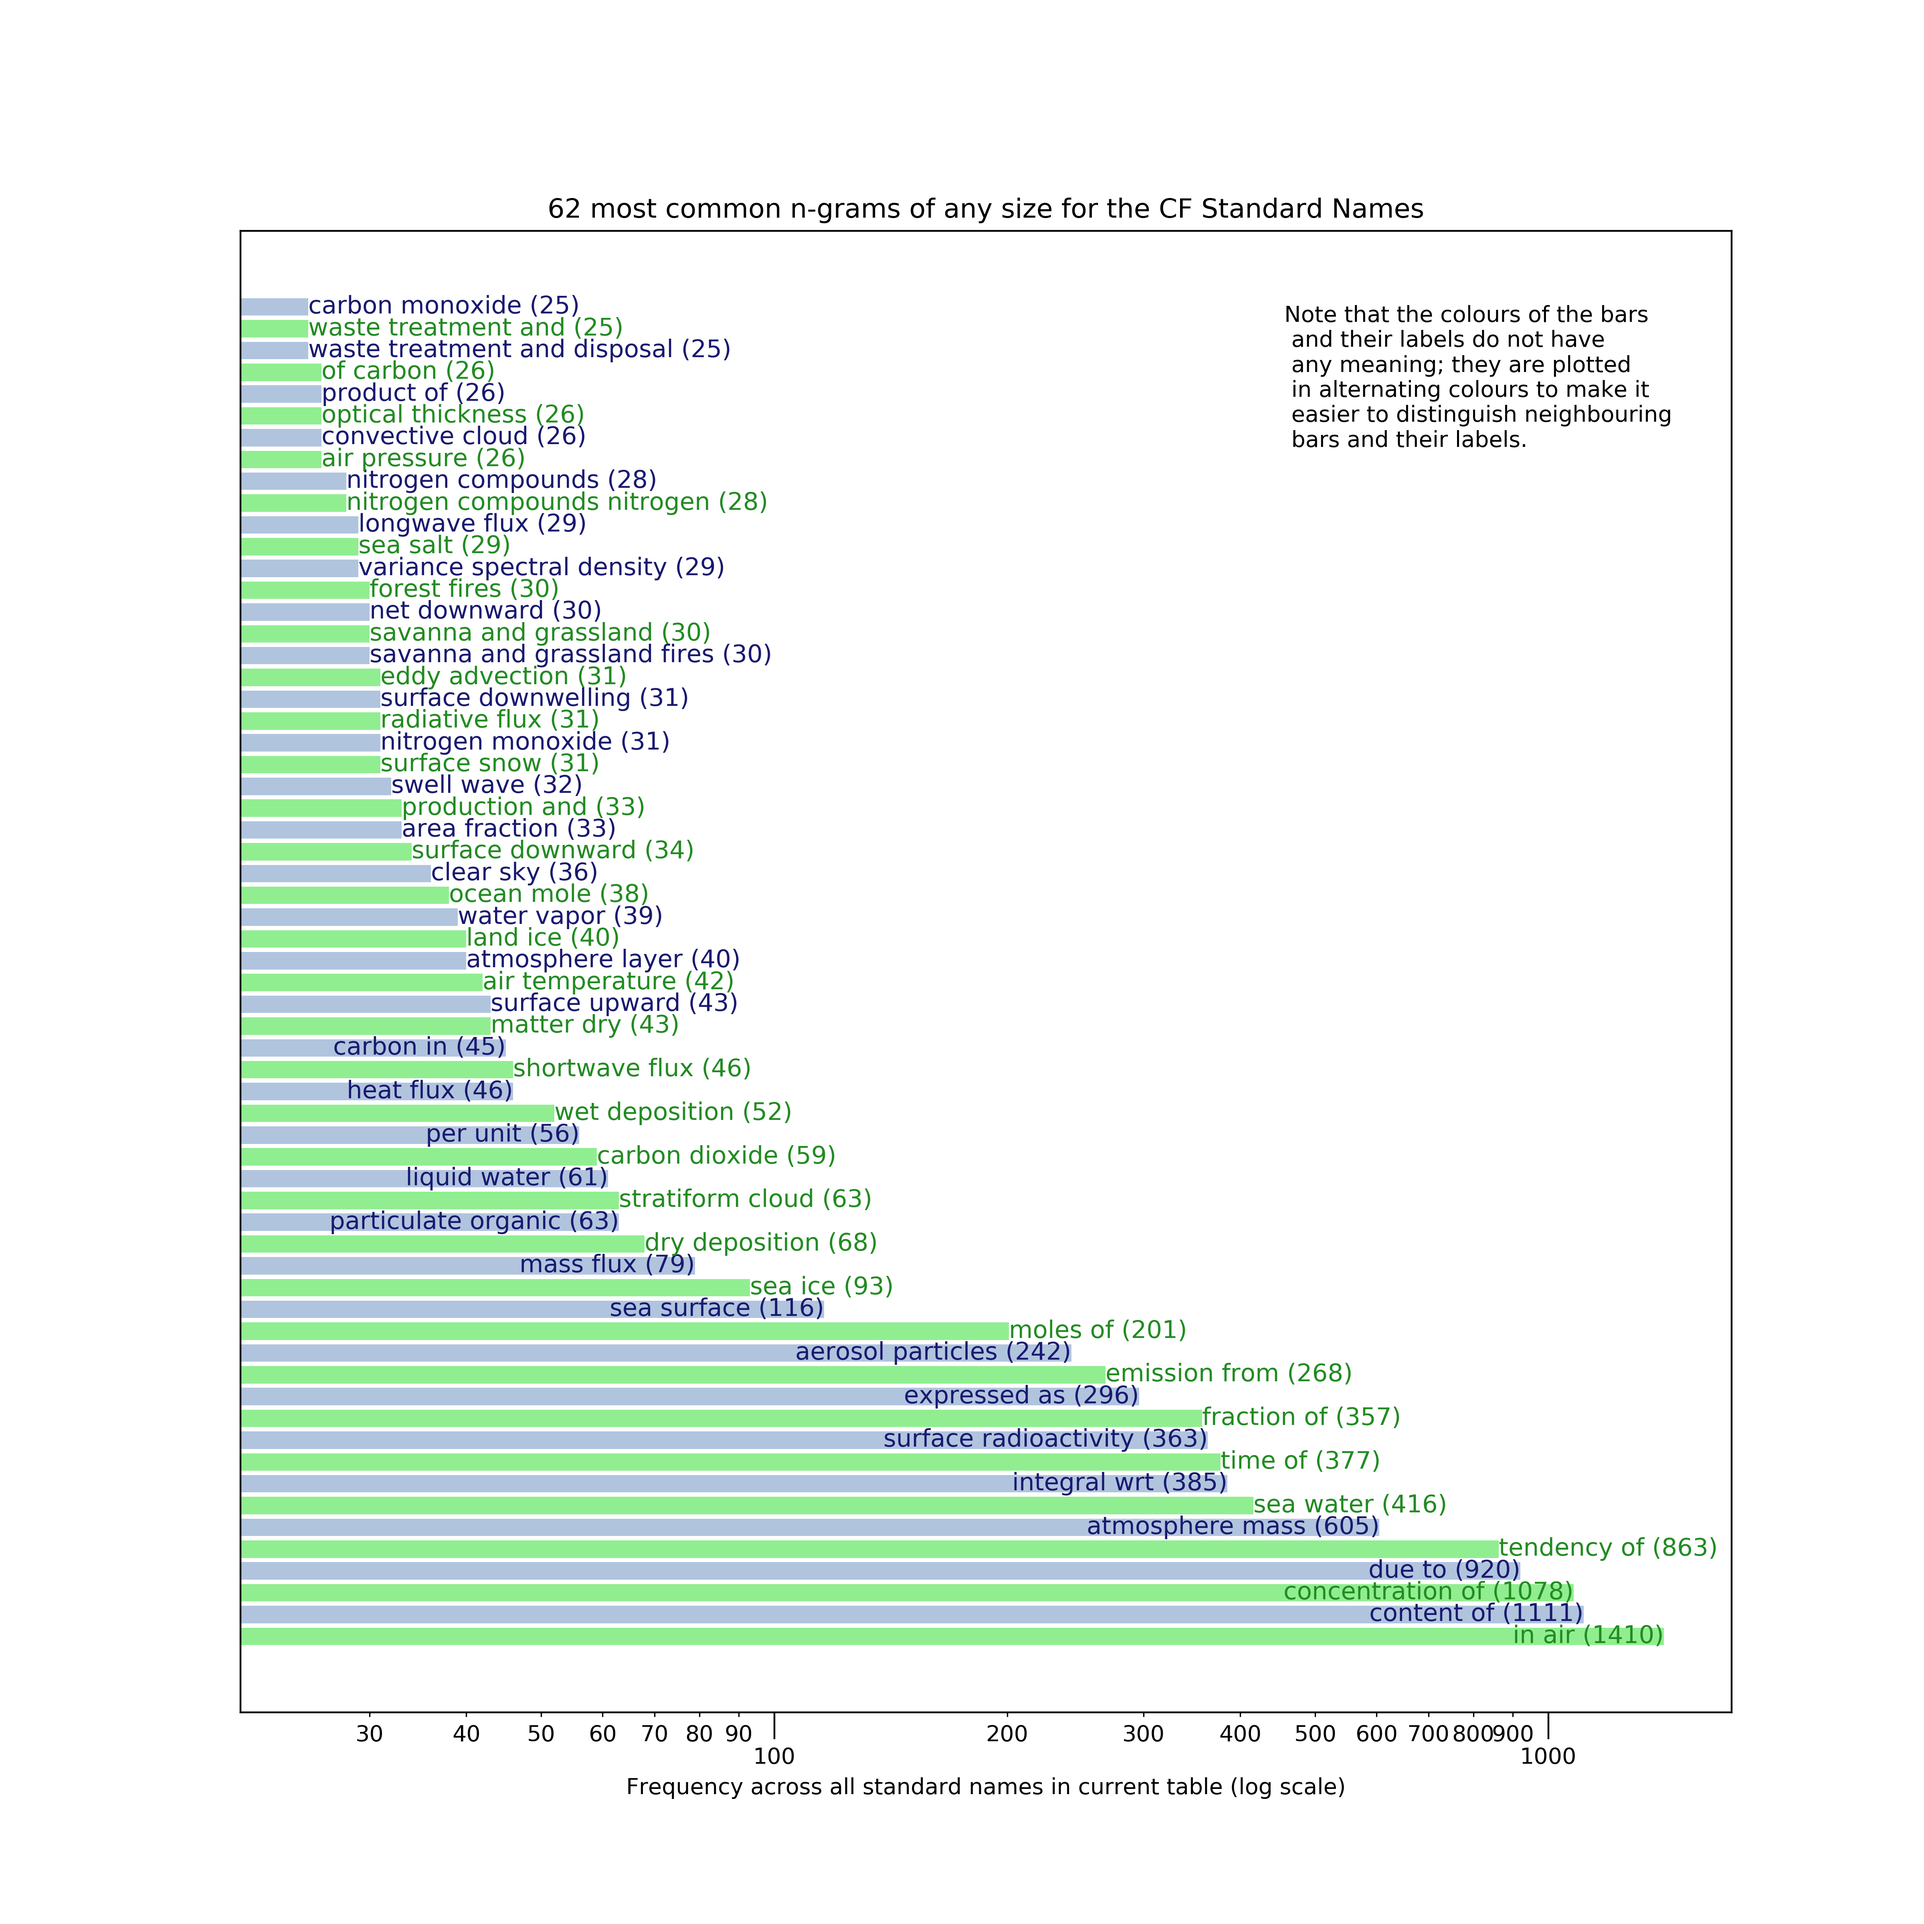
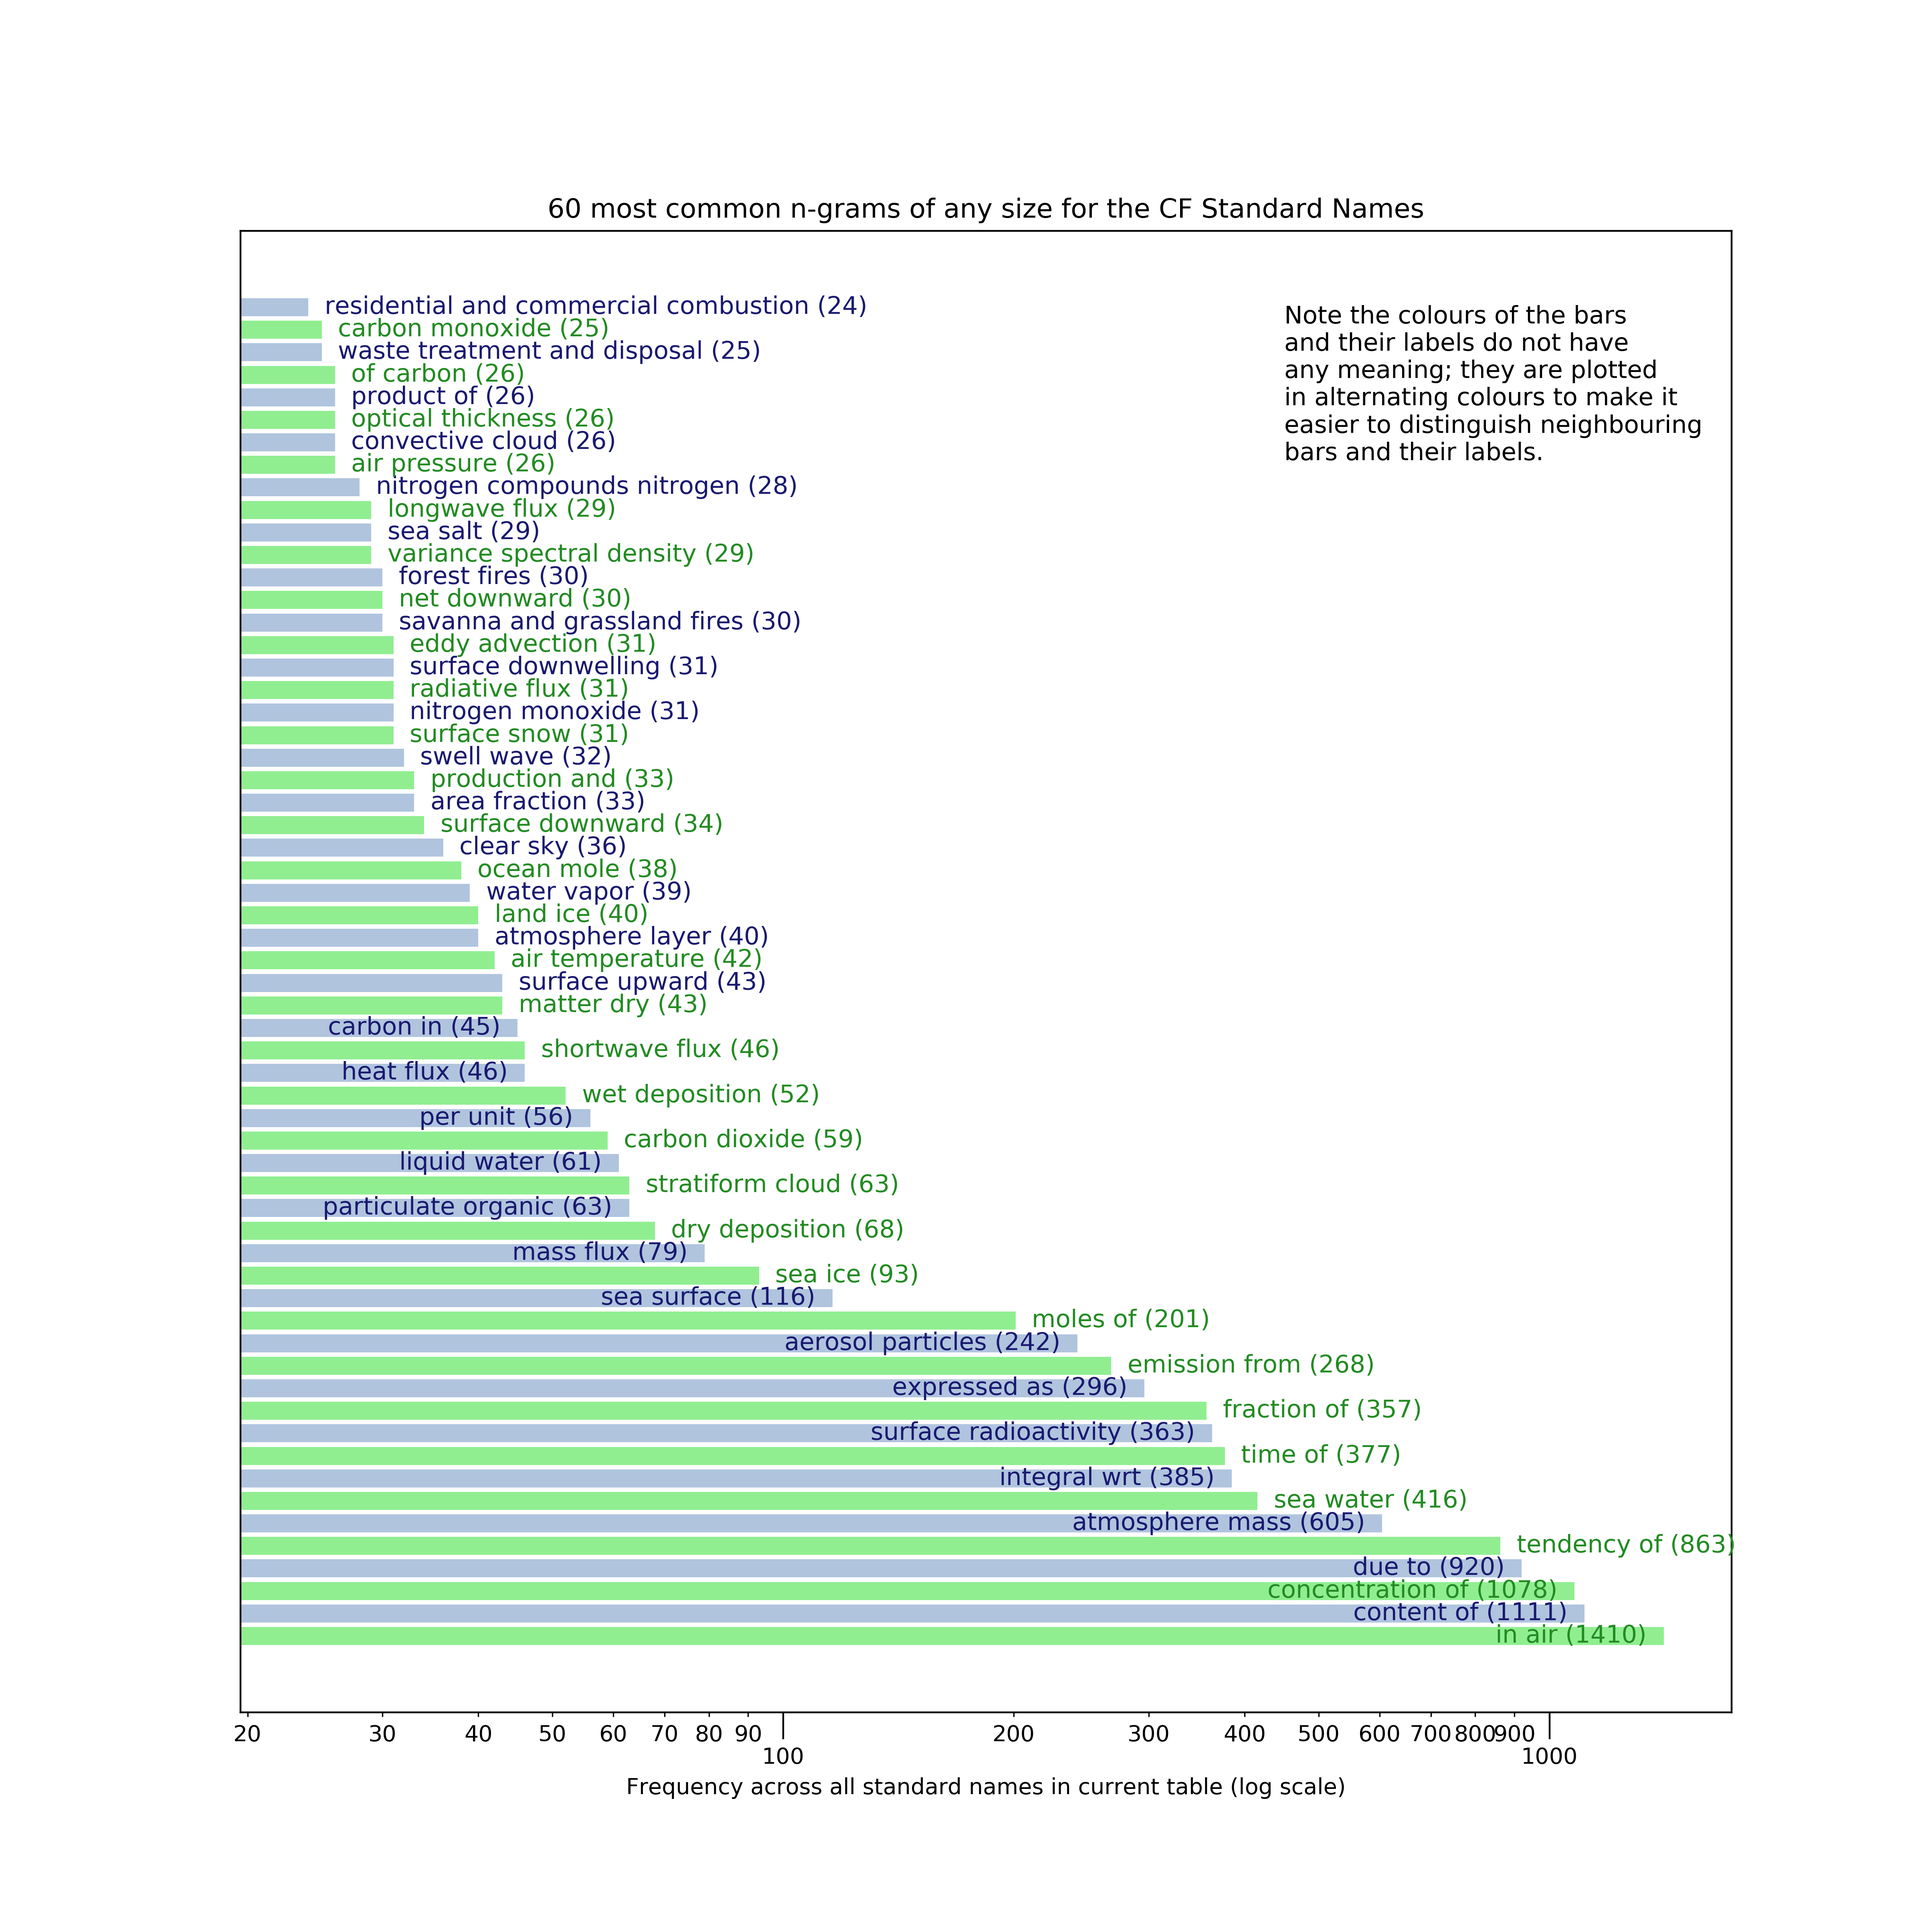
Final tweaks to max count handling in recursive removal algorithm.
Includes some further n-gram count plot tweaks.

diff --git a/analysis/basic-ngram-counts.py b/analysis/basic-ngram-counts.py
@@ -12,7 +12,7 @@ from matplotlib.ticker import ScalarFormatter
 cutoff_total = 15
 # Highest integer n-gram length where the most common n-gram occurs >1 time
 # (simplest to find this manually by inspection of generated graphs):
-ngram_n_max_interesting = 20
+ngram_n_max_interesting = 21
 
 
 def get_standard_names_as_text_blob(name_under_data_dir):
@@ -50,11 +50,17 @@ def get_ngram_counts(names, ngram_size, get_x_most_common=None):
     validate_known_long_ngram = tuple(known_long_name.split()[:ngram_size])
 
     # Quick and basic validity check at this point, before plots made etc.:
-    assert ngram_counts.get(validate_known_long_ngram, False), (
-        "Something is not right as a known n-gram is not being counted.")
+    if ngram_size <= len(known_long_name.split()):
+        assert ngram_counts.get(validate_known_long_ngram, False), (
+            "Something is not right as a known n-gram is not being counted.")
     # Also check that n-grams are not being taken across name boundaries:
-    assert not ngram_counts.get(('azimuth', 'angstrom'), False), (
-        "n-grams have been taken across name boundaries which is not right.")
+    bad_sub_ngram = ' '.join(('azimuth', 'angstrom'))
+    for ngram_info in ngram_counts:
+        ngram_string = ' '.join(ngram_info)
+        assert bad_sub_ngram not in ngram_string, (
+            'n-grams seem to have been taken across name boundaries which '
+            'is not right.'
+        )
 
     if get_x_most_common:
         ngram_counts = dict(ngram_counts.most_common(get_x_most_common))
@@ -72,9 +78,7 @@ def get_and_remove_any_n_ngram_counts_iteration(names):
     '''
     most_common_any_n_ngrams = []
     max_count = 0
-    # Use reversed() so that ngrams with same max. count of higher-n appear
-    # before those of lower-n, as the higher-n counts are more interesting:
-    for size in reversed(range(2, ngram_n_max_interesting)):
+    for size in range(2, ngram_n_max_interesting):
         # Get n-grams at this size:
         size_n_ngrams = []
         for name in names.sentences:
@@ -108,26 +112,34 @@ def get_and_remove_any_n_ngram_counts_iteration(names):
                            final_most_common_any_n_ngrams.items() if
                            value == highest_counts]
 
-    if len(overall_most_common) > 1:
+    if len(overall_most_common) > 1:  # see get_and_remove_any_n_ngram_counts
         print(
-            "WARNING: there are multiple ngrams with the max. count for this "
-            "iteration, namely: '{}'. Check they emerge in the graph.".format(
+            "WARNING: there are multiple n-grams with the max. count for this "
+            "iteration, namely: '{}'. Will remove and store only the n-grams "
+            "in this list which have the highest n in this iteration: ".format(
                 "', '". join(
                     list([" ".join(info[0]) for info in overall_most_common])
                 )
-            )
+            ),
+            end=''  # print of 'hightest n' n-gram(s) follows below
         )
+        max_ngram_length = len(
+            max(overall_most_common, key=lambda n: len(n[0]))[0])
+        overall_most_common = [ngram_info for ngram_info in
+                               overall_most_common if
+                               len(ngram_info[0]) == max_ngram_length]
+        print(overall_most_common)
 
     return overall_most_common, names
 
 
-def get_and_remove_any_n_ngram_counts(names, get_x_most_common):
+def get_and_remove_any_n_ngram_counts(names, get_minimum_of_x_most_common):
     '''TODO
     '''
     # Get most common n-gram of any size:
     overall_most_common_ngrams = []
     use_names = names
-    while len(overall_most_common_ngrams) < get_x_most_common:
+    while len(overall_most_common_ngrams) < get_minimum_of_x_most_common:
         packed_most_freq_ngrams, all_names = (
             get_and_remove_any_n_ngram_counts_iteration(use_names))
         overall_most_common_ngrams.extend(packed_most_freq_ngrams)
@@ -259,9 +271,17 @@ def plot_recursive_ngram_counts(ngram_counts):
         elif count > 1000:
             ha = 'right'
 
+        # Add some padding between data bar and text label
+        use_x = count
+        pad_factor = 0.05
+        if ha == 'left':
+            use_x *= 1 + pad_factor
+        else:
+            use_x *= 1 - pad_factor
+
         label = "{} ({})".format(name, count)
         plt.text(
-            s=label, x=count, y=index,
+            s=label, x=use_x, y=index,
             color=colour, verticalalignment="center",
             ha=ha, size=11,
         )
@@ -274,10 +294,15 @@ def plot_recursive_ngram_counts(ngram_counts):
     )
     ax.text(
         0.7, 0.95,
-        'Note that the colours of the bars\n and their labels do not have\n '
-        'any meaning; they are plotted\n in alternating colours to make it\n '
-        'easier to distinguish neighbouring\n bars and their labels.',
-        transform=ax.transAxes, verticalalignment='top'
+        "\n".join((
+            'Note the colours of the bars',
+            'and their labels do not have',
+            'any meaning; they are plotted',
+            'in alternating colours to make it',
+            'easier to distinguish neighbouring',
+            'bars and their labels.',
+        )),
+        transform=ax.transAxes, verticalalignment='top', size=11
     )
     ax.set_xlabel(
         'Frequency across all standard names in current table (log scale)')

diff --git a/summaries/most-common-ngrams.md b/summaries/most-common-ngrams.md
@@ -117,7 +117,10 @@ for enhanced readability):
 #### *n*-grams of higher *n*
 
 After *n*=20 there are no more *n*-grams that occur more than once across
-all of the names. Hence further plots are not of relevance.
+all of the names, so further plots are not of interest. As an illustration,
+here is the plot of the next *n*, *n*=21:
+
+![21-gram](../results/ngrams/most-common-21-grams.png)
 
 
 ### *n*-grams of any *n* with recursive removal
@@ -125,17 +128,31 @@ all of the names. Hence further plots are not of relevance.
 This time, consider *n*-grams of any length and follow a process of
 iterative removal, as follows:
 
-1. find the most common *n*-gram of any length for the names, where a longer
-   *n*-gram is preferred (i.e. chosen over) to a shorter one with equal count,
-   since any *n*-gram contained in a larger *n+N*-gram (for integer `N >= 1`)
-   will necessarily have at minimum the same count as the *n+N*-gram.
-2. remove this most-common *n*-gram from all names;
-3. go back to step (1), taking the names reduced under (2) as the new input
-   names;
-4. continue this process until the *X* most common *n*-grams of any length,
-   excluding previous most-common *n*-grams, are found.
+1. Find the *n*-grams of any length that occur most frequently within the
+   full table of standard names (where underscores have been replaced with
+   whitespace to mimic natural text for enhanced readability).
+2. If there is a single *n*-gram with the maximum frequency count in step (1),
+   use that as the input to step (3). Otherwise, in the case that multiple
+   *n*-grams are most common, take from this sub-list the *n*-gram(s) with
+   the highest *n* as inputs to step (3). Note the *n*-grams of lower
+   *n* discarded at this stage will be picked up in another iteration of
+   steps (1-) unless it is an *n*-gram contained in a larger *n+N*-gram
+   (for integer `N >= 1`) e.g. 'savanna and grassland' contained in
+   'savanna and grassland fires' where the removal in step (3) will mean the
+   *n*-gram is fully removed from the input names to the next iteration.
+   (That way we keep and plot the longer *n+N*-gram for the results rather
+   than the shorter one with the same count. This is preferred because the
+   longer *n+N*-gram is more interesting, being a longer contiguous sequence.
+3. Remove this most-common *n*-gram(2) determined in step (2) from all names
+   and henceforth use the resultant reduced names as the names input;
+4. Go back to step (1), taking the names reduced under (2) as the new input
+   names.
+5. Continue this process until the *X* most common *n*-grams of any length,
+   excluding previous most-common *n*-grams which are incrementally removed,
+   are found.
 
-The results for the most common `X=50` are as follows:
+The results for the most common `X=60`, found by the above process, are as
+follows:
 
 ![any-n-gram](../results/ngrams/recursive-n-grams-of-any-n.png)
 
